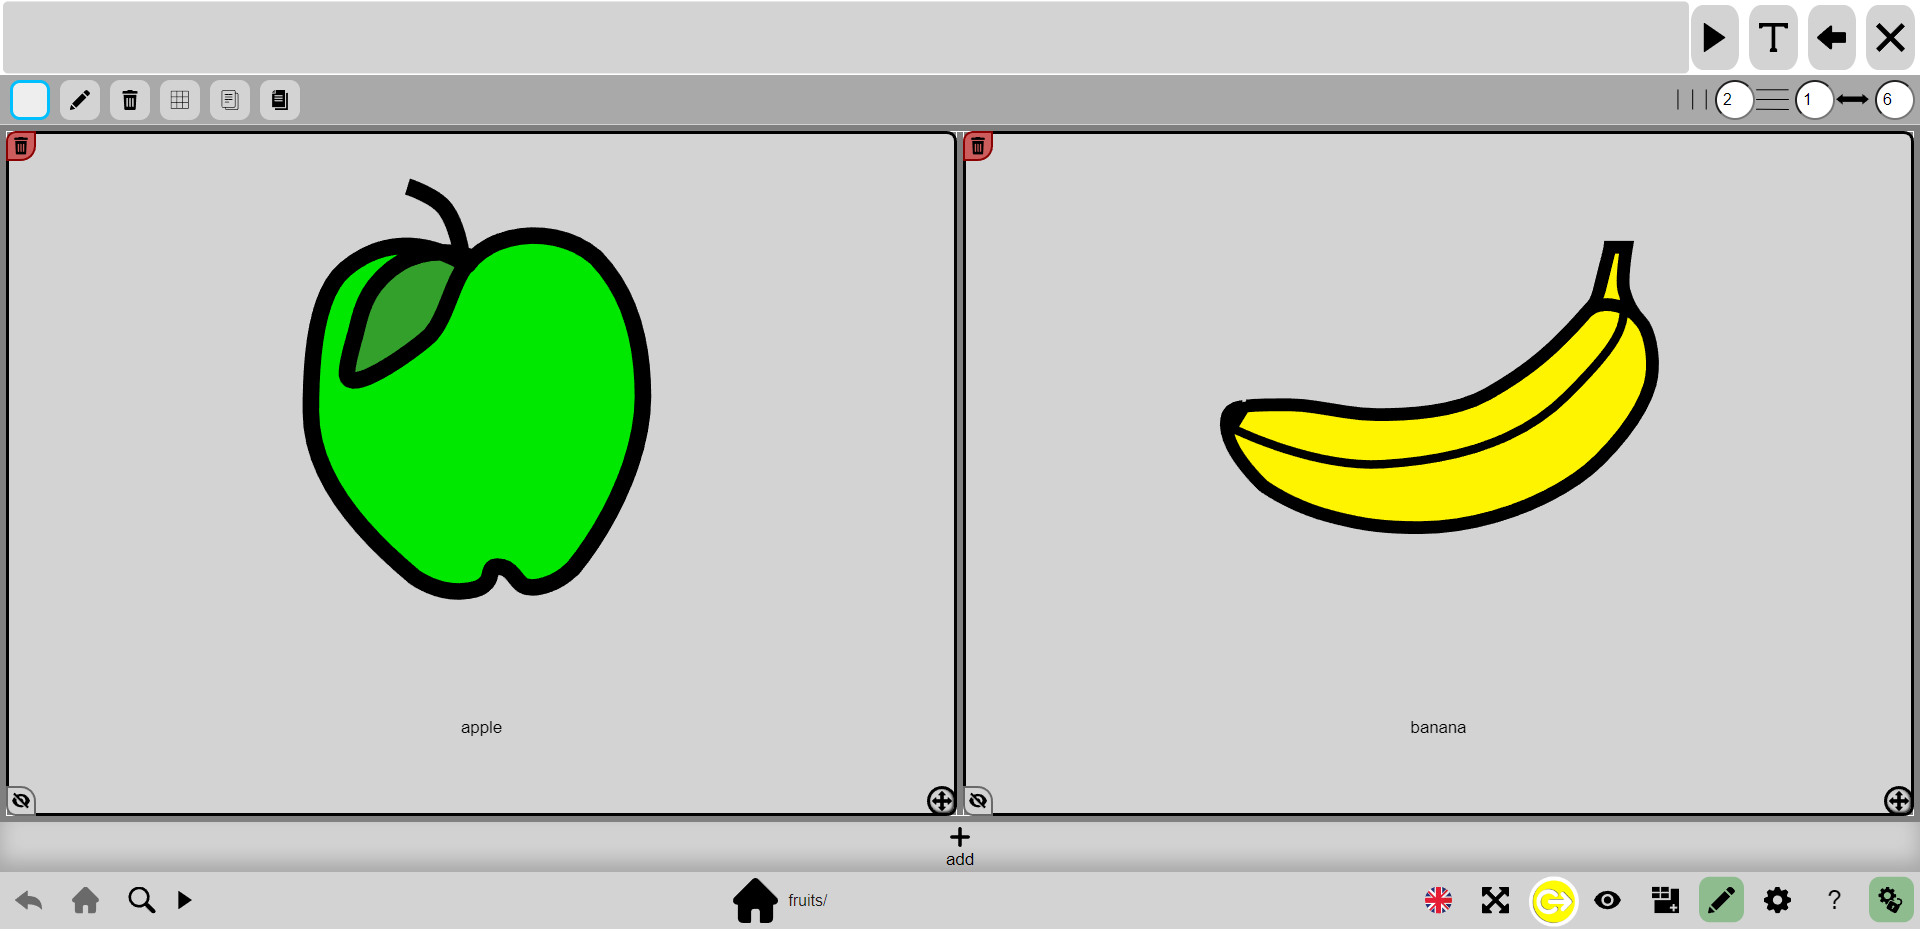
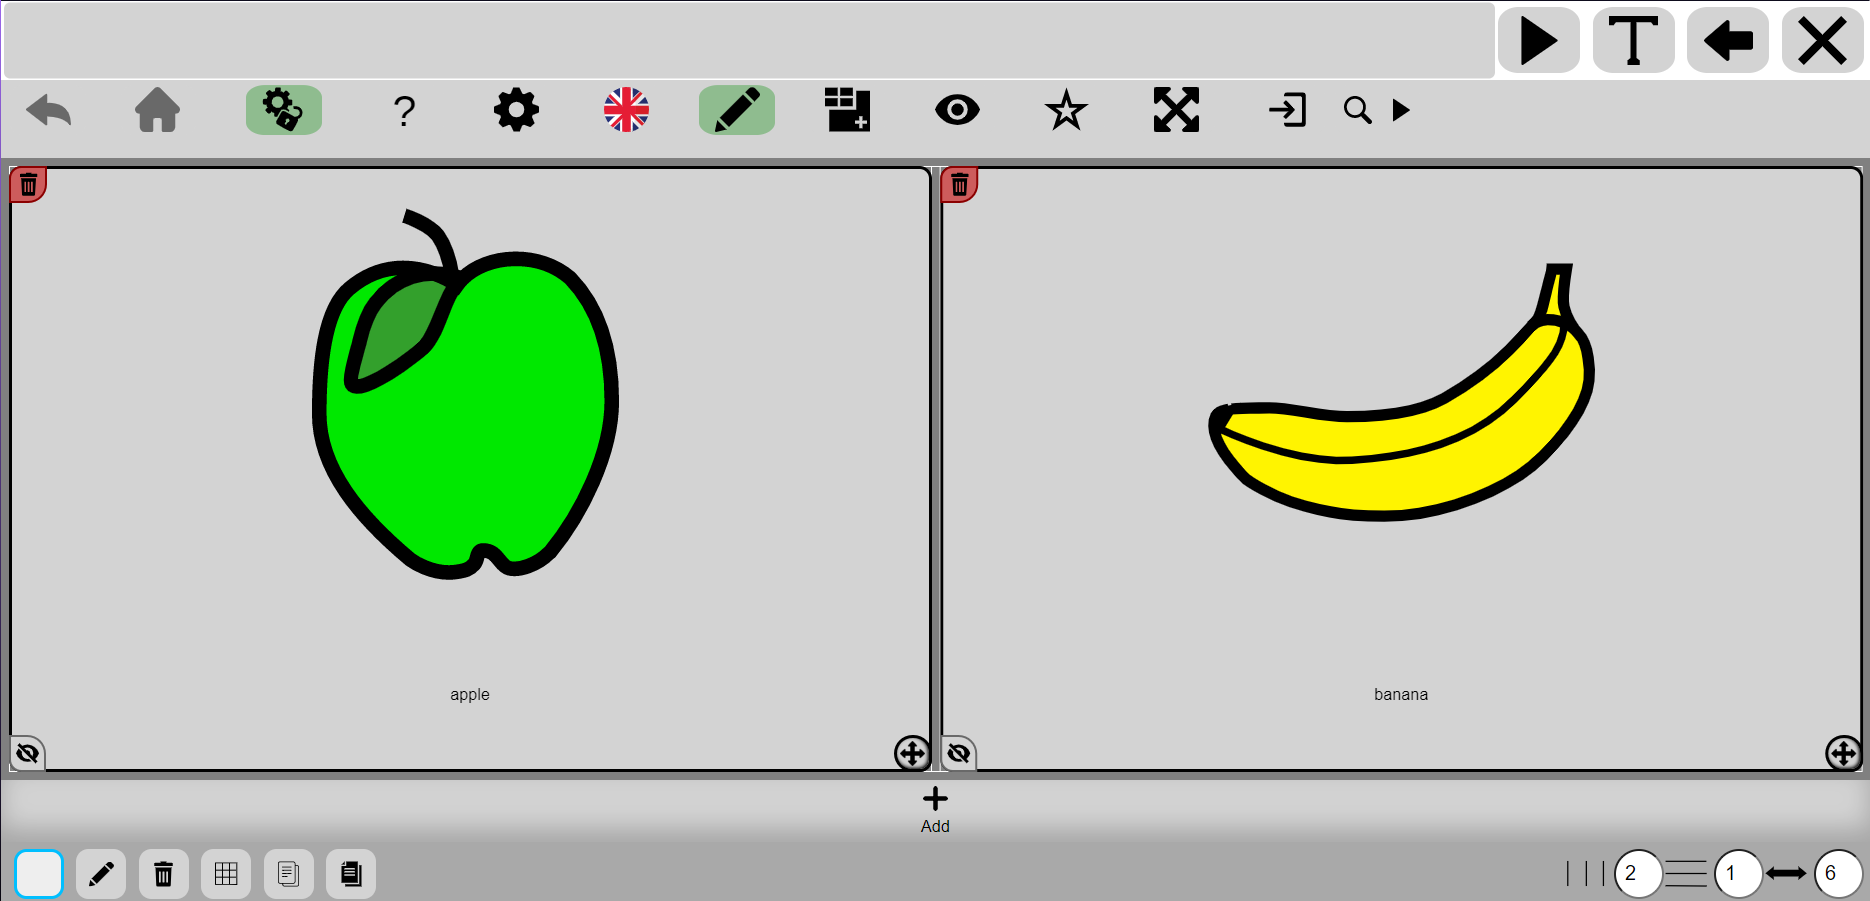
new images for english

diff --git a/_pages/userGuide.md b/_pages/userGuide.md
@@ -220,8 +220,8 @@ The different sound actions:
 ### Application theme
 
 In this section you can change the general look of the application by selecting 4 colors of your choice and the font of the application menus.
-{% include figure image_path="assets/images/color_and_text_normal.PNG" alt="color_and_text_normal" %}
-{% include figure image_path="assets/images/color_and_text_changed.png" alt="color_and_text_changed" %}
+{% include figure image_path="assets/images/color_and_text_normalEN.PNG" alt="color_and_text_normal" %}
+{% include figure image_path="assets/images/color_and_text_changedEN.png" alt="color_and_text_changed" %}
 
 ### Palette management
 
